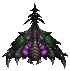
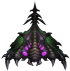
Create  fleet of aliens delete an alien from alins.py

diff --git a/game_function.py b/game_function.py
@@ -3,6 +3,7 @@
 import pygame
 import sys
 from bullet import Bullet
+from alien import Alien
 #tracking keyboard and mouse movements
 def check_keydown_events(event, ai_settings, screen, ship, bullets):
     if event.key==pygame.K_RIGHT:
@@ -41,13 +42,27 @@ def update_bullets(bullets):
     for bullet in bullets.copy():
         if bullet.rect.bottom <=0:
             bullets.remove(bullet)
-
-def update_screen(ai_settings, screen, ship, alien, bullets):
+def create_fleet(ai_settings, screen, aliens):
+    """Create a fleet of aliens"""
+    # Create an alien and calculate  amount of aliens in row
+    # Interval between aliens equal width of alien
+    alien = Alien(ai_settings, screen)
+    alien_width =alien.rect.width
+    available_space_x = ai_settings.screen_width - 2 * alien_width
+    number_aliens_x = int(available_space_x / (2 * alien_width))
+    #Create first row of aliens
+    for alien_number in range(number_aliens_x):
+        #Create alien and locate position on a row
+        alien = Alien(ai_settings, screen)
+        alien.x = alien_width + 2 * alien_width * alien_number
+        alien.rect.x = alien.x
+        aliens.add(alien)
+def update_screen(ai_settings, screen, ship, aliens, bullets):
     #The screen is redrawn on each iteration of the loop
     screen.fill(ai_settings.bg_colour)
     #All the bullets draw behinde the ship and alien
     for bullet in bullets.sprites():
         bullet.draw_bullet()
     ship.blitme()
-    alien.blitme()
+    aliens.draw(screen)
     pygame.display.flip() 

diff --git a/aliens.py b/aliens.py
@@ -16,13 +16,15 @@ def run_game():
     #creating a group to store bullets
     bullets = Group()
     #creating an alien
-    alien = Alien(ai_settings,screen)
+    aliens = Group()
+    #Creating fleet
+    gf.create_fleet(ai_settings,screen,aliens)
     pygame.display.set_caption("Alien invasion")
     #Start main cycle of the game
     while True:
         gf.check_events(ai_settings,screen, ship, bullets)
         ship.update()
         gf.update_bullets(bullets)
-        gf.update_screen(ai_settings, screen, ship, alien, bullets)
+        gf.update_screen(ai_settings, screen, ship, aliens, bullets)
             
 run_game()
